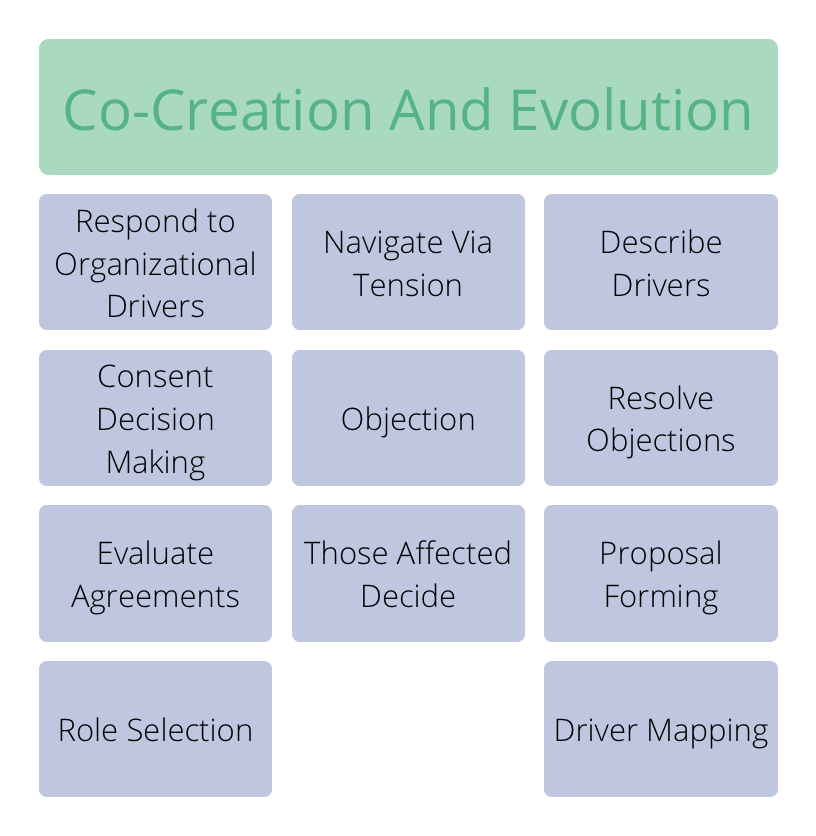
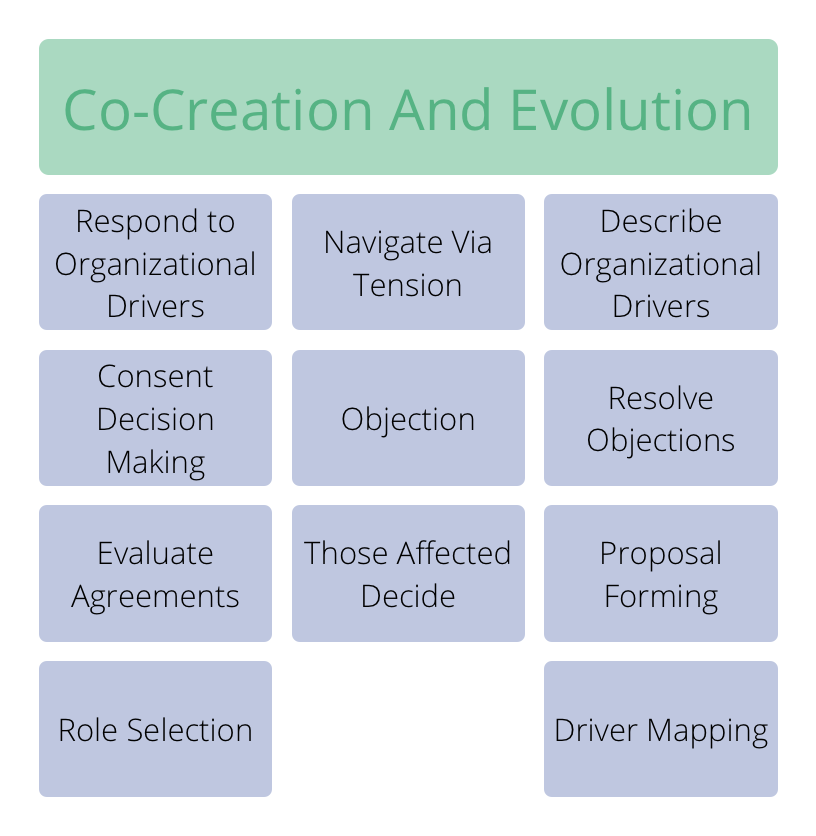
added 4 aspects of drivers, added need to glossary

Changed region(s): [[0.7047, 0.2488, 0.9498, 0.3732]]

diff --git a/src/co-creation-and-evolution/describe-organizational-drivers.md b/src/co-creation-and-evolution/describe-organizational-drivers.md
@@ -1,0 +1,73 @@
+# Describe Organizational Drivers
+
+**Describe organizational drivers to understand, communicate and remember them.**
+
+A simple way to describe a driver is with a **brief statement** explaining: 
+
+-   **What’s happening..:**
+    -   the **current situation**
+    -   the **effect** of this situation on the organization
+-   ...and **what’s needed:**
+    -   the **need** of the organization in relation to this situation
+    -   the **impact** of attending to that need
+
+---
+
+# Describe Organizational Drivers (2)
+
+Depending on their perspective, a person or group may decide to describe a driver as a problem to solve or an opportunity to leverage. 
+
+A **driver statement** captures just enough information to communicate the need for an action or a decision. More information about the scope and details of the driver may be recorded besides the initial driver statement. 
+
+---
+
+## Example driver statement: 
+
+> _“The kitchen is a mess: there are no clean cups, the sink is full of dishes and it’s not possible to quickly grab a coffee and get right back to work. We need the kitchen in a usable state so we can stay focussed on our work.”_
+
+---
+
+## 1. Current Situation
+
+> _“The kitchen is a mess: there are no clean cups, the sink is full of dishes...”_
+
+Describe the current situation:
+
+- Briefly capture the essentials of what is happening.
+- Be objective: Describe observations and avoid evaluation.
+
+---
+
+## 2. Effect
+
+> _“...it’s not possible to quickly grab a coffee and get right back to work.”_
+
+Explain the effect of this situation on the organization:
+
+- Clarify **why** the situation needs attention: how does it affect the organization? 
+- Be explicit about effects being current or anticipated. 
+- Explain challenges, losses, opportunities or gains. 
+
+---
+
+## 3. Need
+
+> _“We need the kitchen in a usable state...”_
+
+Explain the need of the organization in relation to this situation:
+
+- A **need of an organization** is anything a group (or individual) needs to effectively account for a domain. 
+- When there’s disagreement about the need(s), it’s helpful to zoom out from specific solutions.
+- Be specific on whose need it is (“we need”, “they need”, “I need”) .
+- Avoid describing specific solutions disguised as needs.
+
+---
+
+## 4. Impact
+
+> _“...so we can stay focussed on our work”._
+
+Describe the impact of attending to that need:
+
+- Explain intended outcome, potential benefits or opportunities.
+- The impact may be obvious or implicit, especially when the effects of the current situation are already described.

diff --git a/src/appendix/changelog.md b/src/appendix/changelog.md
@@ -1,5 +1,11 @@
 ## Changelog
 
+### Changes 2018-03-21
+
+* renamed pattern  _Describe Drivers_ to _Describe Organizational Drivers_
+* _Describe Organizational Drivers_: explained four aspects of a driver: current situation, effect of the situation on the organization, need of the organization in relation to this situation, and impact of attending to need
+* added _need_ to glossary
+
 ### Changes 2017-11-16
 
 - small corrections

diff --git a/templates/deckset-template.md b/templates/deckset-template.md
@@ -1,4 +1,4 @@
-footer: ![] (img/by-sa-sm.png) B. Bockelbrink, J. Priest, L. David (v2017-11-16) - <http://sociocracy30.org>
+footer: ![] (img/by-sa-sm.png) B. Bockelbrink, J. Priest, L. David (v2018-03-21) - <http://sociocracy30.org>
 slidenumbers: true
 autoscale: true
 theme: Plain Jane, 1

diff --git a/templates/wordpress-footer.md b/templates/wordpress-footer.md
@@ -4,4 +4,4 @@
 
 ---
 
-© 2017 by Bernhard Bockelbrink, James Priest and Liliana David. Licensed under [CC BY-SA 4.0](/license/)
+© 2015-2018 by Bernhard Bockelbrink, James Priest and Liliana David. Licensed under [CC BY-SA 4.0](/license/)
